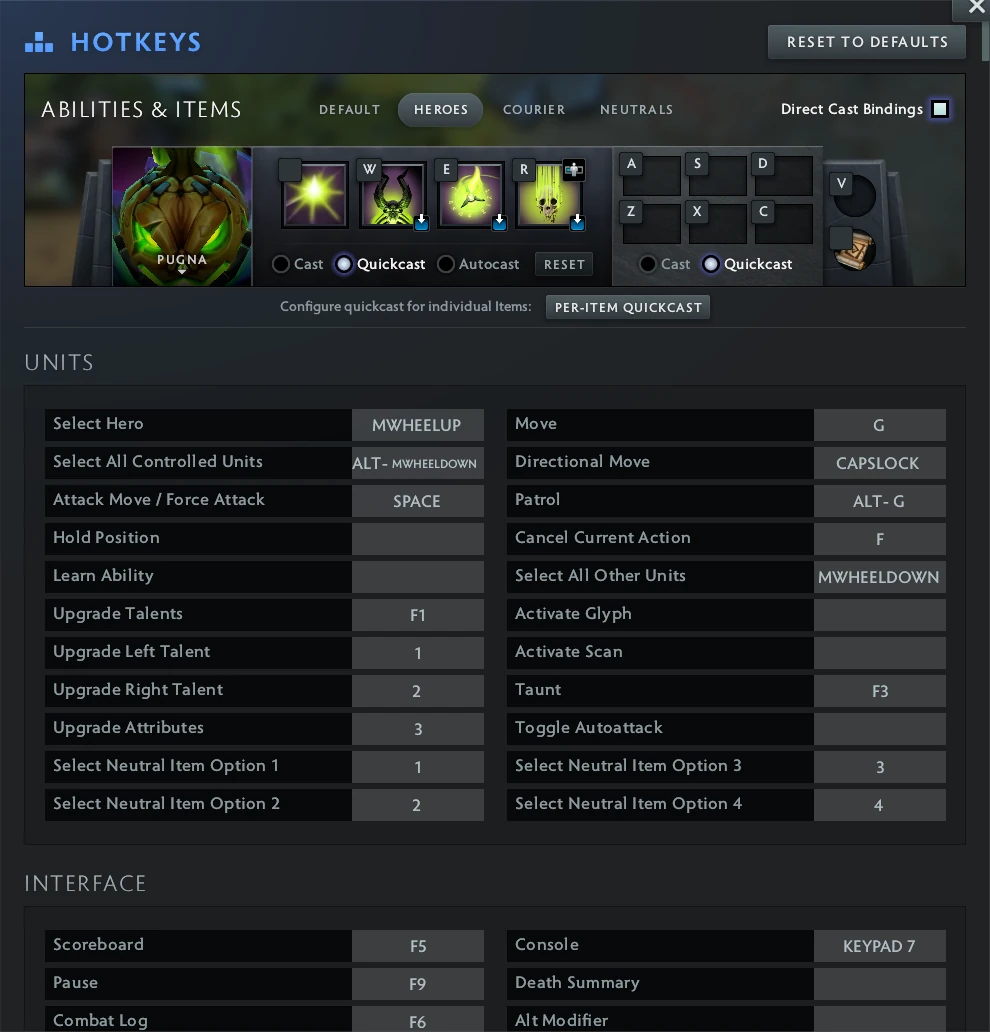
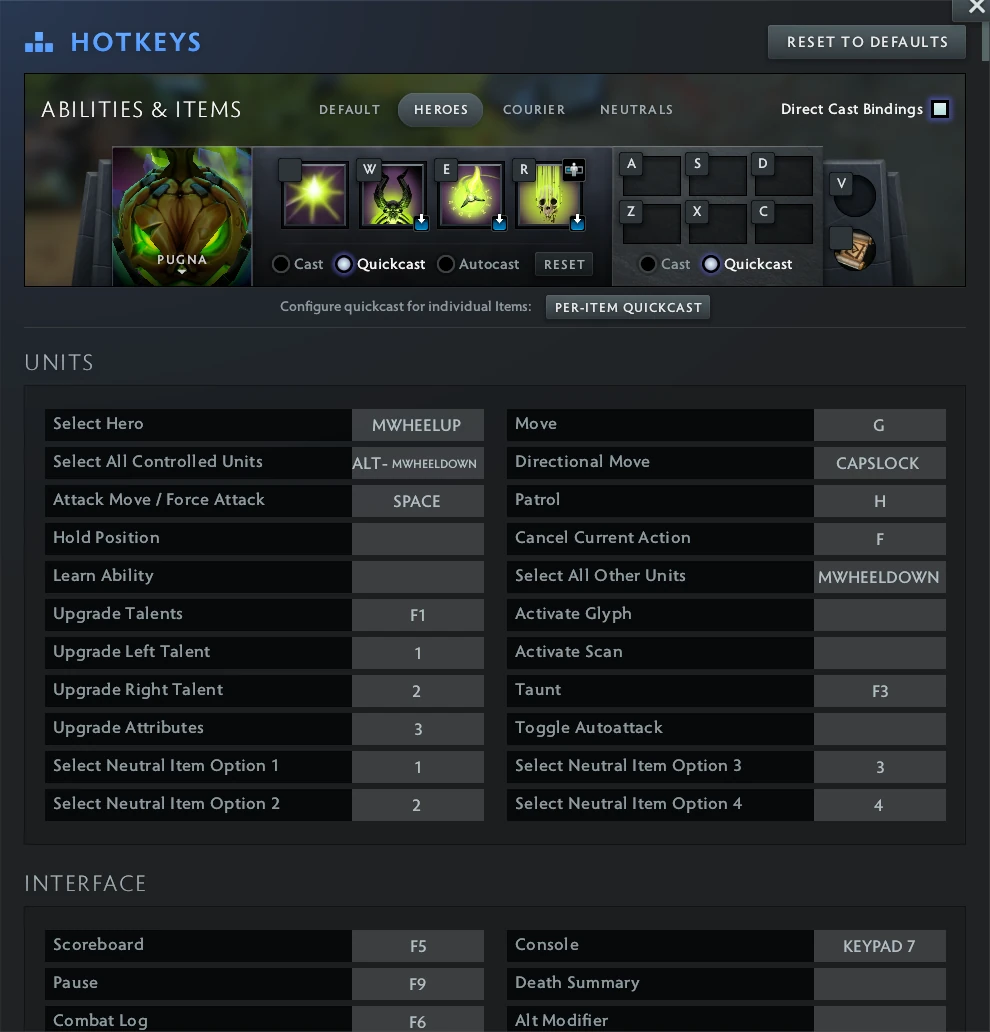
.

Changed region(s): [[0.1212, 0.124, 0.2727, 0.2791], [0.8485, 0.4651, 0.9091, 0.4961]]

diff --git a/docs/html/sections/section-15-move.html b/docs/html/sections/section-15-move.html
@@ -50,12 +50,12 @@
 
     <ul>
       <li><b>Move</b> <kk>G</kk></li> 
-      <li><b>Patrol</b> <kk>ALT</kk><kk>G</kk></li> 
+      <li><b>Patrol</b> <kk>H</kk></li> 
     </ul>
 
 
     <p class="mt2">
-      And as a 'collateral' we bind <act>Patrol</act> to the <kk>ALT</kk> layer.<br><br>
+      And as a 'collateral' we bind <act>Patrol</act> to <kk>H</kk>.<br><br>
 
       Please notice, there's no "Quick Patrol", so it requires a left-click.
     </p>    

diff --git a/docs/html/sections/section-1-hotkeys-overview.html b/docs/html/sections/section-1-hotkeys-overview.html
@@ -23,7 +23,7 @@
       <li><b>Attack</b> <kk>Spacebar</kk></li>
       <li><b>Stop</b> <kk>F</kk></li>
       <li><b>Move</b> <kk>G</kk></li>
-      <li><b>Patrol</b> <kk>ALT</kk><kk>G</kk></li>
+      <li><b>Patrol</b> <kk>H</kk></li>
       <li class="separator"><b>Directional Move</b> <kk>CapsLock</kk></li>
 
       <li><b>Select Group 1 - 9</b> <kk>1</kk> &nbsp; - &nbsp; <kk>9</kk></li>
